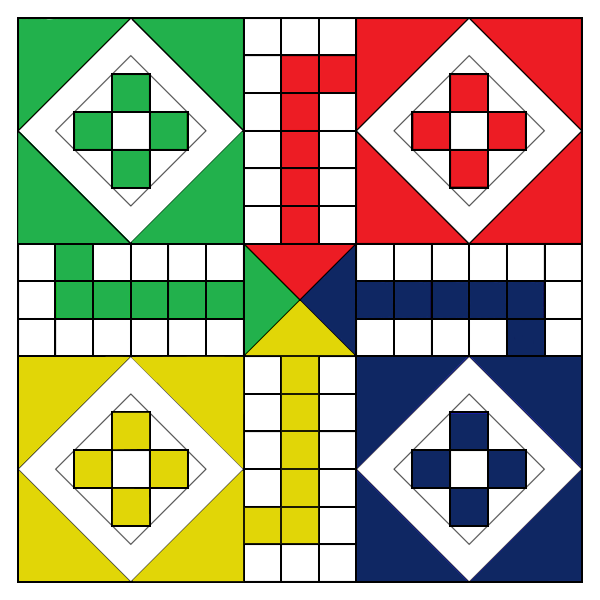
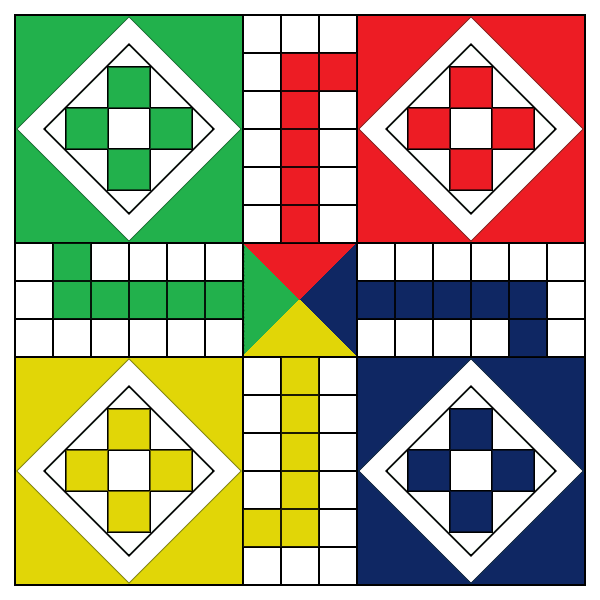
created new map

diff --git a/positions.py b/positions.py
@@ -1,24 +1,24 @@
 BOARD_POS = [
-(19, 244), (56, 244), (93, 244), (130, 244), (167, 244), (204, 244),
-(244, 204), (244, 167), (244, 130), (244, 93), (244, 56), (244, 19),
-(281, 19), 
-(318, 19), (318, 56), (318, 93), (318, 130), (318, 167), (318, 204),
-(357, 244), (394, 244), (431, 244), (469, 244), (506, 244), (544, 244),
-(544, 281),
-(544, 318), (506, 318), (469, 318), (431, 318), (394, 318), (357, 318),
-(318, 357), (318, 394), (318, 431), (318, 468), (318, 505), (318, 542),
-(281, 542), 
-(244, 542), (244, 505), (244, 468), (244, 431), (244, 394), (244, 357), 
-(204, 318), (167, 318), (130, 318), (93, 318), (56, 318), (19, 318),
-(19, 281)
+(16, 244), (54, 244), (92, 244), (130, 244), (168, 244), (206, 244),
+(244, 206), (244, 168), (244, 130), (244, 92), (244, 54), (244, 16), 
+(282, 16),
+(320, 16), (320, 54), (320, 92), (320, 130), (320, 168), (320, 206),
+(358, 244), (396, 244), (434, 244), (472, 244), (510, 244), (548, 244),
+(548, 282),
+(548, 320), (510, 320), (472, 320), (434, 320), (396, 320), (358, 320),
+(320, 358), (320, 396), (320, 434), (320, 472), (320, 510), (320, 548),
+(282, 548),
+(244, 548), (244, 510), (244, 472), (244, 434), (244, 396), (244, 358),
+(206, 320), (168, 320), (130, 320), (92, 320), (54, 320), (16, 320),
+(16, 282)
 ]
 
-GREEN_FINISH = [(56, 281), (93, 281), (130, 281), (167, 281), (204, 281)]
-RED_FINISH = [(281, 56), (281, 93), (281, 130), (281, 167), (281, 204),]
-BLUE_FINISH = [(506, 281), (469, 281), (431, 281), (394, 281), (357, 281)]
-YELLOW_FINISH = [(281, 505), (281, 468), (281, 431), (281, 394), (281, 357)]
+GREEN_FINISH = [(54, 282), (92, 282), (130, 282), (168, 282), (206, 282)]
+BLUE_FINISH = [(510, 282), (472, 282), (434, 282), (396, 282), (358, 282)]
+YELLOW_FINISH = [(282, 510), (282, 472), (282, 434), (282, 396), (282, 358)]
+RED_FINISH = [(282, 54), (282, 92), (282, 130), (282, 168), (282, 206)]
 
-GREEN_START = [(113, 75), (75, 113), (151, 113), (113, 151)]
-RED_START = [(451, 75), (414, 113), (490, 113), (451, 151)]
-BLUE_START = [(451, 413), (414, 450), (490, 450), (451, 489)]
-YELLOW_START = [(113, 413), (75, 450), (151, 450), (113, 489)]
+GREEN_START = [(108, 67), (150, 108), (66, 108), (108, 149)]
+BLUE_START = [(450, 409), (492, 450), (408, 450), (450, 491)]
+YELLOW_START = [(450, 67), (492, 108), (408, 108), (450, 149)]
+RED_START = [(108, 409), (150, 450), (66, 450), (108, 491)]

diff --git a/mini.py b/mini.py
@@ -1,8 +1,10 @@
-my_dict = {
-	0: 'btn1',
-	1: 'btn2',
-	2: 'btn3'
-}
+x, y = 244, 16
 
-for item in my_dict:
-	print(item, my_dict[item])
+with open('tmp.txt', 'w') as file:
+	for i in range(3):
+		for j in range(15):
+			file.write(f'({x}, {y})\n')
+			y += 38
+		x += 38
+		y = 16
+
